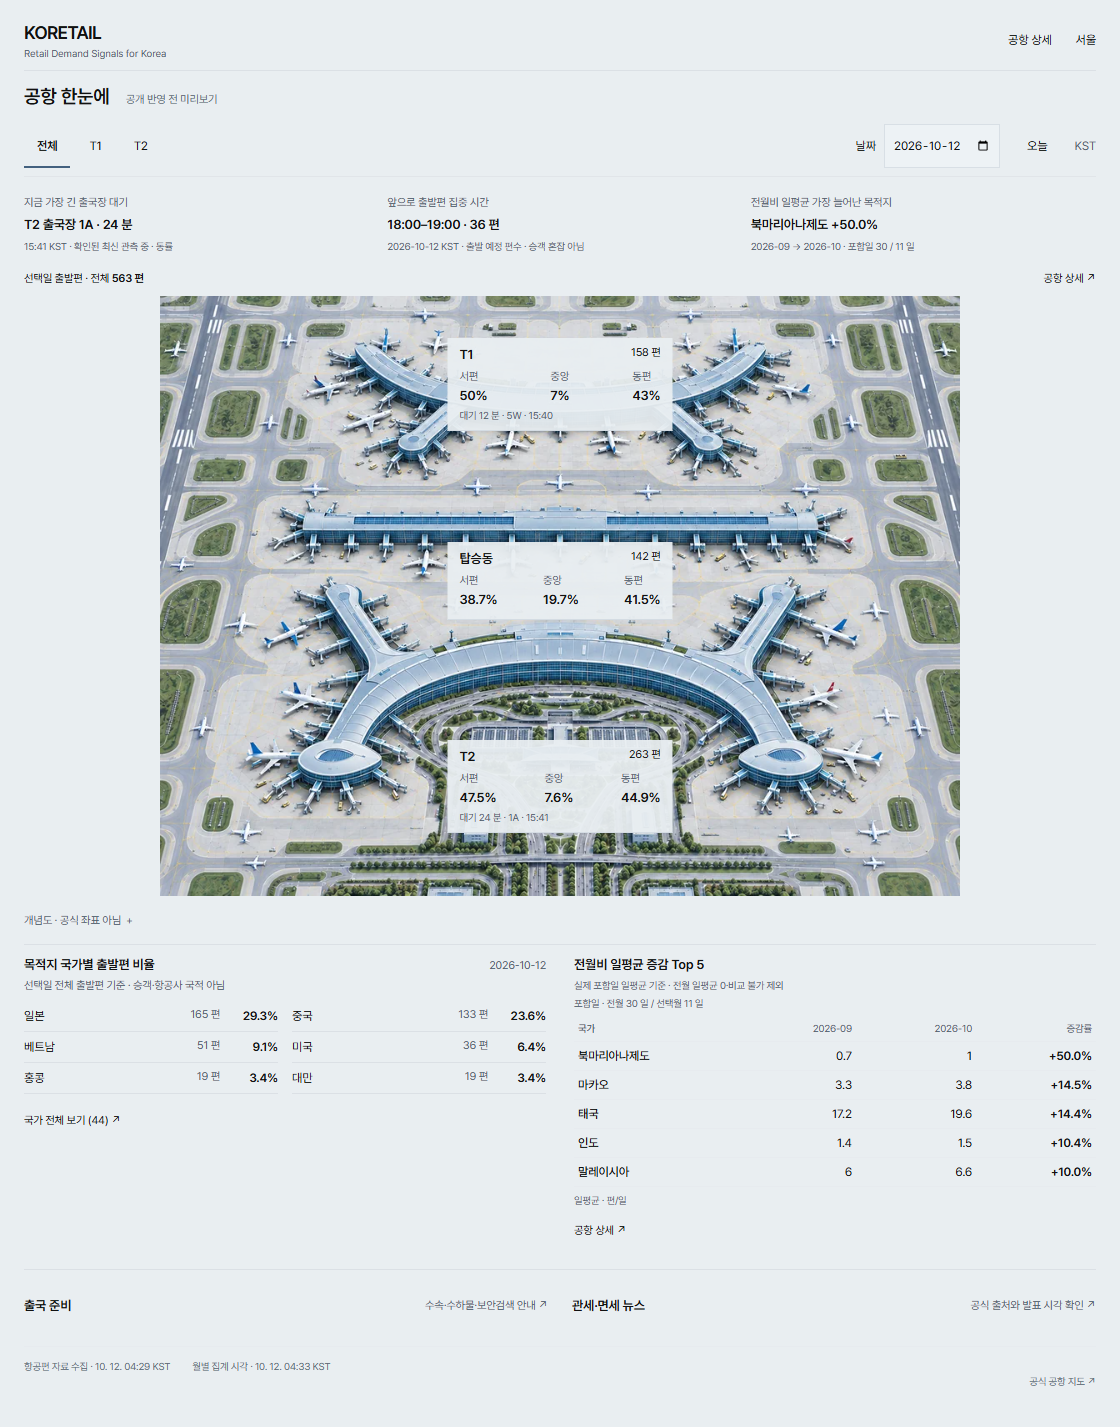
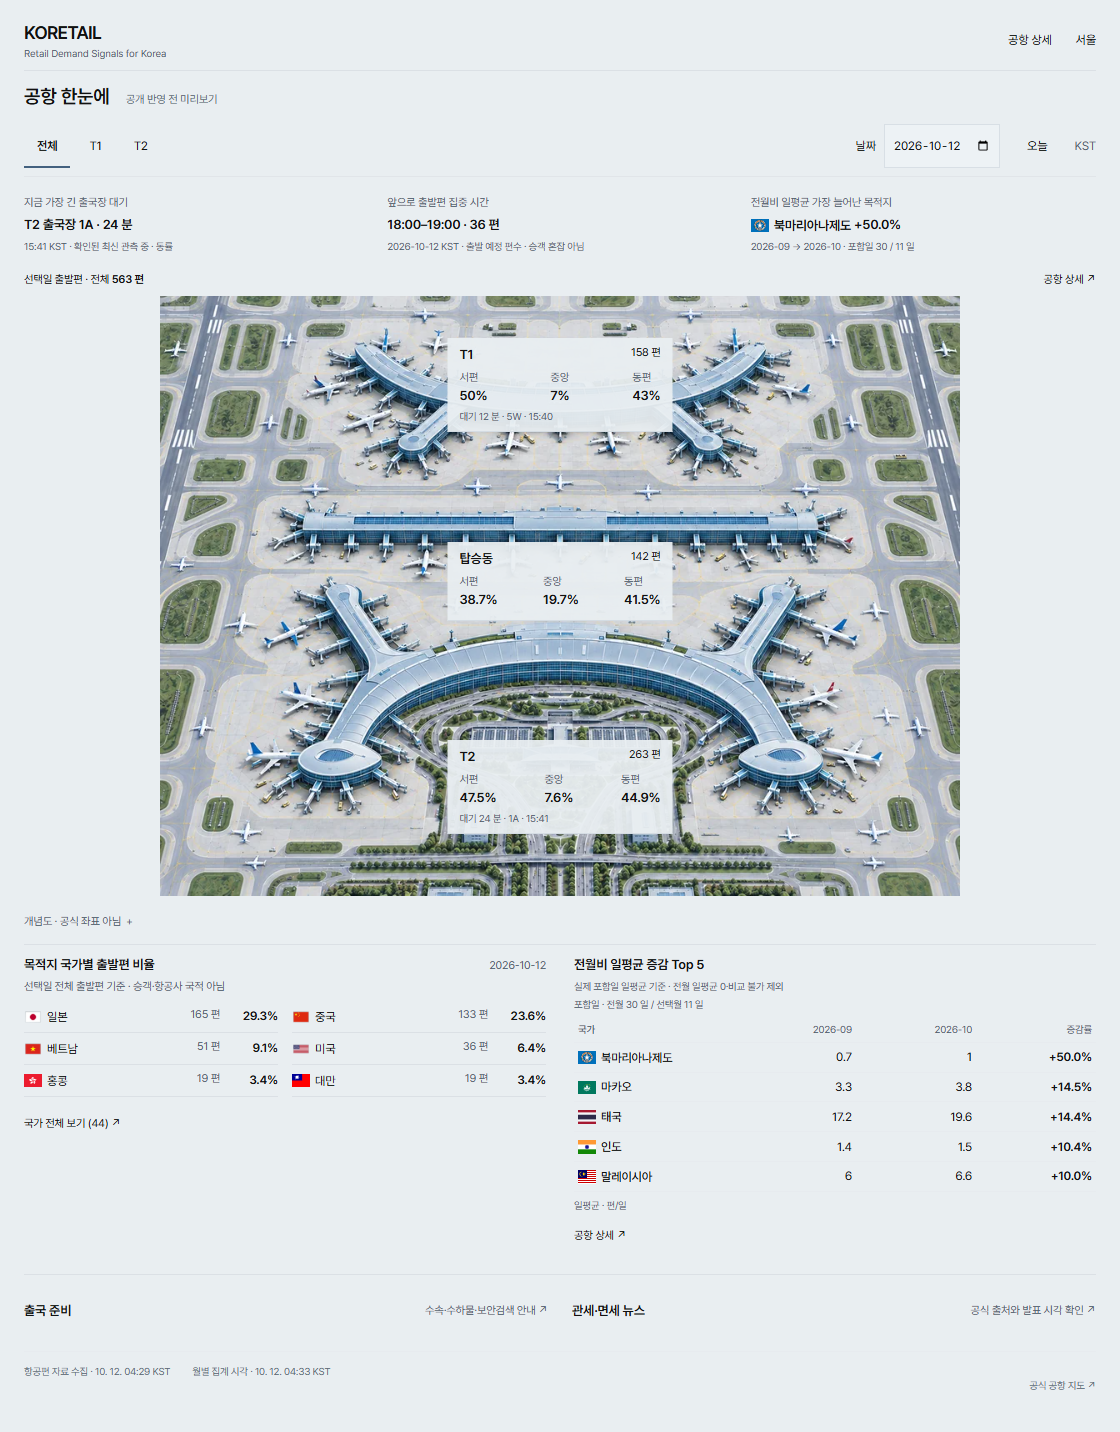
Refine mobile glance overlays and restore date fixture contract

diff --git a/app/airport-glance-preview.tsx b/app/airport-glance-preview.tsx
@@ -31,6 +31,10 @@ const interfaceCopy={
  zh:{seoul:'首尔',building:'建筑未确认',country:'国家',mean:'日均 · 班/日',map:'机场官方地图',main:'主菜单',terminal:'航站楼',summary:'摘要',layout:'机场布局',more:'更多机场信息',days:'计入日期',dayUnit:'天'},
  ja:{seoul:'ソウル',building:'建物未確認',country:'国',mean:'1日平均 · 便/日',map:'空港公式地図',main:'メインメニュー',terminal:'ターミナル',summary:'概要',layout:'空港配置',more:'空港の詳細情報',days:'集計日数',dayUnit:'日'},
 } as const;
+// Reuse the reviewed assets already used by AirportZoneCountries; never guess a fallback flag.
+const sculptedFlags=new Set(['CN','JP','US','VN']);
+const flatFlags=new Set('AE AT AU BN CA CH CZ DE DK ES ET FI FR GB GE GU HK HU ID IN IT KG KH KZ LA LK MM MN MO MP MX MY NL NP NZ PH PL PT QA SG TH TM TR TW UZ'.split(' '));
+const countryFlag=(country:string)=>sculptedFlags.has(country)?`/images/airport-flags/${country}.webp`:flatFlags.has(country)?`/images/airport-flags/fallback/${country.toLowerCase()}.svg`:null;
 const insightCopy={
  ko:{wait:'지금 가장 긴 출국장 대기',waitBasis:'확인된 최신 관측 중',upcoming:'앞으로 출발편 집중 시간',upcomingBasis:'출발 예정 편수 · 승객 혼잡 아님',growth:'전월비 일평균 가장 늘어난 목적지',noGrowth:'비교 가능한 증가 없음',noUpcoming:'현재 이후 예정편 없음',unavailable:'확인 가능한 자료 없음',minute:'분',observed:'관측',waitShort:'대기',tie:'동률',shared:'T1 출국장 이용',growthTitle:'전월비 일평균 증감 Top 5'},
  en:{wait:'Longest current departure-hall wait',waitBasis:'Among fresh available observations',upcoming:'Busiest upcoming departure slot',upcomingBasis:'Scheduled flights · not passenger crowding',growth:'Largest daily-mean growth vs previous month',noGrowth:'No comparable increase',noUpcoming:'No remaining scheduled departures',unavailable:'No verified data',minute:'min',observed:'Observed',waitShort:'Wait',tie:'Tied',shared:'Uses T1 departure halls',growthTitle:'Daily-mean change vs previous month · Top 5'},
@@ -58,9 +62,10 @@ export default function AirportGlancePreview({lang,artworkSrc=null}:{lang:Lang;a
  const minuteText=(minute:number)=>`${String(Math.floor(minute/60)).padStart(2,'0')}:${String(minute%60).padStart(2,'0')}`;
  const details=`/${lang}/airport?terminal=${scope}${day?`&date=${day}`:''}`;
  const buildingNames={T1:'T1',CONCOURSE:c.concourse,T2:'T2'},countryName=(country:string)=>country==='KR'?dc.domestic:names.of(country)??country;
+  const countryLabel=(country:string)=>{const src=countryFlag(country);return <span className="glance-country-name">{src&&<img src={src} width="18" height="18" alt="" loading="lazy" decoding="async"/>}<span>{countryName(country)}</span></span>;};
  const knownCountries=data?.countries.filter(row=>row.country!==null)??[],unknownCountry=data?.countries.find(row=>row.country===null);
  const countryLimit=knownCountries[5]?.flights??0,leadingCountries=knownCountries.filter((row,index)=>index<6||row.flights===countryLimit);
- const countryRow=(row:{country:string|null;flights:number})=><li key={row.country??'UNKNOWN'} data-country={row.country??'UNKNOWN'}><span>{row.country===null?dc.unknown:countryName(row.country)}</span><span>{fmt.format(row.flights)} {c.unit}</span><strong>{data&&data.total>0?`${fmt.format(row.flights/data.total*100)}%`:'—'}</strong></li>;
+ const countryRow=(row:{country:string|null;flights:number})=><li key={row.country??'UNKNOWN'} data-country={row.country??'UNKNOWN'}><span>{row.country===null?dc.unknown:countryLabel(row.country)}</span><span>{fmt.format(row.flights)} {c.unit}</span><strong>{data&&data.total>0?`${fmt.format(row.flights/data.total*100)}%`:'—'}</strong></li>;
  const waitValue=(value:NonNullable<typeof wait>)=>`${value.minutes}${value.row.waitTimeRaw==='60+'?'+':''} ${ic.minute}`;
  return <main className="glance-preview" data-testid="airport-glance-preview">
   <header className="glance-header"><a href={`/${lang}/airport`} className="glance-brand">KORETAIL<span>Retail Demand Signals for Korea</span></a><nav aria-label={ui.main}><a href={details}>{c.detail}</a><a href={`/${lang}/myeongdong`}>{ui.seoul}</a></nav></header>
@@ -69,7 +74,7 @@ export default function AirportGlancePreview({lang,artworkSrc=null}:{lang:Lang;a
   <section className="glance-insights" aria-label={ui.summary}>
    <a href={`${details}#airport-checkpoints-title`} data-testid="glance-key-wait"><span>{ic.wait}</span><strong>{wait?`${wait.row.terminal} ${friendlyCheckpointName(wait.row.zone,lang)} · ${waitValue(wait)}`:ic.unavailable}</strong><small>{wait?`${shortTime(wait.row.observedAt)} KST · ${ic.waitBasis}${wait.tied?` · ${ic.tie}`:''}`:ic.waitBasis}</small></a>
    <a href={`${details}#airport-departure-model-slot`} data-testid="glance-key-upcoming"><span>{ic.upcoming}</span><strong>{upcoming?`${minuteText(upcoming.startMin)}–${minuteText(upcoming.endMin)} · ${upcoming.flights} ${c.unit}`:futureReady?ic.noUpcoming:ic.unavailable}</strong><small>{day||'—'} KST · {ic.upcomingBasis}{upcoming?.tied?` · ${ic.tie}`:''}</small></a>
-   <a href={`${details}#airport-monthly-flights`} data-testid="glance-key-growth"><span>{ic.growth}</span><strong>{growth?<>{countryName(growth.country)} <ChangeRate value={growth.percent} lang={lang}/>{ranking[1]?.percent===growth.percent?` · ${ic.tie}`:''}</>:ranking.length?ic.noGrowth:ic.unavailable}</strong><small>{previousMonth||'—'} → {month||'—'} · {ui.days} {previous?.includedDays.length??'—'} / {current?.includedDays.length??'—'} {ui.dayUnit}</small></a>
+   <a href={`${details}#airport-monthly-flights`} data-testid="glance-key-growth"><span>{ic.growth}</span><strong>{growth?<>{countryLabel(growth.country)} <ChangeRate value={growth.percent} lang={lang}/>{ranking[1]?.percent===growth.percent?` · ${ic.tie}`:''}</>:ranking.length?ic.noGrowth:ic.unavailable}</strong><small>{previousMonth||'—'} → {month||'—'} · {ui.days} {previous?.includedDays.length??'—'} / {current?.includedDays.length??'—'} {ui.dayUnit}</small></a>
   </section>
   {!ready&&<p role="status" className="glance-status">{summary===null?c.missing:loaded===undefined?c.loading:payload?.truncated?c.partial:c.missing}</p>}
   <section className="glance-airport" aria-label={ui.layout}><div className="glance-map-heading"><span>{c.total} · {scope==='all'?c.all:scope} <strong>{data?fmt.format(data.total):'—'} {c.unit}</strong></span><a href={`${details}#airport-departure-model-slot`}>{c.detail} ↗</a></div><div className="glance-art-frame" data-artwork={artworkSrc?'ready':'pending'}>
@@ -77,7 +82,7 @@ export default function AirportGlancePreview({lang,artworkSrc=null}:{lang:Lang;a
    {(['T1','CONCOURSE','T2'] as const).map(building=>{const counts=data?.buildings[building],shares=counts?selectedZoneShares(counts):null,queue=building==='CONCOURSE'?null:glanceLongestWait(queues.filter(row=>row.terminal===building),clock);return <section key={building} className={`glance-building glance-building-${building}`} aria-label={buildingNames[building]} data-selected={scope==='all'||scope===building||(scope==='T1'&&building==='CONCOURSE')}><h2>{buildingNames[building]} <span>{counts?`${counts.total} ${c.unit}`:'—'}</span></h2><dl>{(['WEST','CENTER','EAST'] as const).map(side=><div key={side}><dt>{({WEST:c.west,CENTER:c.center,EAST:c.east})[side]}</dt><dd>{shares?.[side]!==null&&shares?.[side]!==undefined?`${fmt.format(shares[side]!)}%`:'—'}</dd></div>)}</dl>{queue&&<small className="glance-map-queue" data-queue-terminal={building}>{ic.waitShort} {waitValue(queue)} · {queue.row.zone.replace(/^DG(\d+)_/,'$1')} · {shortTime(queue.row.observedAt)}</small>}{counts&&counts.UNVERIFIED>0&&<small className="glance-location-note">{c.unknown} {counts.UNVERIFIED} {c.unit}</small>}</section>;})}
   </div><details className="glance-context"><summary>{c.concept}</summary><p>{c.scope}</p><p>{c.scheduled}</p></details>{data&&data.unverifiedBuilding>0&&<p>{ui.building} {data.unverifiedBuilding} {c.unit}</p>}</section>
   <div className="glance-brief-data"><section className="glance-destinations" aria-label={dc.title}><div className="glance-section-head"><h2>{dc.title}</h2><span>{day||'—'}</span></div><p>{dc.basis}</p>{data?<><ul>{leadingCountries.map(countryRow)}{unknownCountry&&countryRow(unknownCountry)}</ul>{data.total===0&&<p>0 {c.unit}</p>}</>:<p role="status">{c.missing}</p>}<a className="glance-detail-link" href={`${details}#airport-departure-model-slot`}>{dc.more} ({knownCountries.length}) ↗</a></section>
-  <section className="glance-ranking"><div className="glance-section-head"><h2>{ic.growthTitle}</h2></div><p>{c.basis}</p><p className="glance-included-days">{ui.days} · {c.previous} {previous?`${previous.includedDays.length} ${ui.dayUnit}`:'—'} / {c.current} {current?`${current.includedDays.length} ${ui.dayUnit}`:'—'}</p><table><thead><tr><th>{ui.country}</th><th>{previous?.month??(previousMonth||'—')}</th><th>{month||'—'}</th><th>{c.change}</th></tr></thead><tbody>{ranking.map(row=><tr key={row.country} data-country={row.country}><th scope="row">{countryName(row.country)}</th><td>{fmt.format(row.previous!)}</td><td>{fmt.format(row.current!)}</td><td><ChangeRate value={row.percent} lang={lang}/></td></tr>)}</tbody></table>{!ranking.length&&<p role="status">{month&&monthRequest.pending?c.loading:c.missing}</p>}<small>{ui.mean}</small><a className="glance-detail-link" href={`${details}#airport-monthly-flights`}>{c.detail} ↗</a></section></div>
+  <section className="glance-ranking"><div className="glance-section-head"><h2>{ic.growthTitle}</h2></div><p>{c.basis}</p><p className="glance-included-days">{ui.days} · {c.previous} {previous?`${previous.includedDays.length} ${ui.dayUnit}`:'—'} / {c.current} {current?`${current.includedDays.length} ${ui.dayUnit}`:'—'}</p><table><thead><tr><th>{ui.country}</th><th>{previous?.month??(previousMonth||'—')}</th><th>{month||'—'}</th><th>{c.change}</th></tr></thead><tbody>{ranking.map(row=><tr key={row.country} data-country={row.country}><th scope="row">{countryLabel(row.country)}</th><td>{fmt.format(row.previous!)}</td><td>{fmt.format(row.current!)}</td><td><ChangeRate value={row.percent} lang={lang}/></td></tr>)}</tbody></table>{!ranking.length&&<p role="status">{month&&monthRequest.pending?c.loading:c.missing}</p>}<small>{ui.mean}</small><a className="glance-detail-link" href={`${details}#airport-monthly-flights`}>{c.detail} ↗</a></section></div>
   <nav className="glance-actions" aria-label={ui.more}><a href={`${details}#airport-departure-preparation`}><strong>{c.ready}</strong><span>{c.readyNote} ↗</span></a><a href={`/${lang}/airport-news`}><strong>{c.news}</strong><span>{c.newsNote} ↗</span></a></nav>
   <footer><span>{c.collected} · {stamp(payload?.retrievedAt)}</span><span>{c.monthTime} · {stamp(monthRequest.reply?.calculatedAt)}</span><a href="https://www.airport.kr/geomap/ap_ko/view.do" target="_blank" rel="noreferrer">{ui.map} ↗</a></footer>
  </main>;

diff --git a/e2e/airport-glance-preview.spec.ts b/e2e/airport-glance-preview.spec.ts
@@ -12,7 +12,7 @@ const monthly={status:'READY',month:'2026-10',calculatedAt:'2026-10-11T01:00:00Z
 const queues=[{terminal:'T1',zone:'DG2_E',waitTimeMinutes:12,waitTimeRaw:'12',observedAt:date+'T10:10:00+09:00',freshness:'LIVE'},{terminal:'T2',zone:'DG1_A',waitTimeMinutes:24,waitTimeRaw:'24',observedAt:date+'T10:11:00+09:00',freshness:'LIVE'},{terminal:'T2',zone:'DG1_B',waitTimeMinutes:24,waitTimeRaw:'24',observedAt:date+'T10:11:00+09:00',freshness:'LIVE'}];
 async function routeData(page:import('@playwright/test').Page){
  await page.clock.setFixedTime(new Date(`${date}T10:15:00+09:00`));
- await page.route('**/api/live/summary*',routeSummary({...SUMMARY_FIXTURE,dayRelation:'TODAY',todayKst:date,serviceDateKst:date,airport:{...SUMMARY_FIXTURE.airport,serviceDateKst:date,congestion:queues},generatedAt:`${date}T10:15:00+09:00`}));
+ await page.route('**/api/live/summary*',route=>{const day=new URL(route.request().url()).searchParams.get('date')??date;return routeSummary({...SUMMARY_FIXTURE,dayRelation:day===date?'TODAY':'PAST',todayKst:date,serviceDateKst:day,airport:{...SUMMARY_FIXTURE.airport,serviceDateKst:day,congestion:day===date?queues:[]},generatedAt:`${date}T10:15:00+09:00`})(route);});
  await page.route('**/api/live/flights*',route=>{const day=new URL(route.request().url()).searchParams.get('date')!;return route.fulfill({json:{mode:'live-flights',serviceDateKst:day,flights:day===date?flights:[],retrievedAt:`${day}T00:00:00Z`,truncated:false}});});
  await page.route('**/api/live/airport-months*',route=>route.fulfill({json:monthly}));
 }
@@ -20,8 +20,9 @@ for(const width of [360,390,430,1440])test(`decision summary with image overlays
  const errors:string[]=[];page.on('pageerror',error=>errors.push(error.message));await page.setViewportSize({width,height:1000});await page.emulateMedia({reducedMotion:'reduce'});await routeData(page);await page.goto('/ko/airport-glance-preview');const app=page.getByTestId('airport-glance-preview');
  await expect(app.locator('.glance-map-heading')).toContainText('300 편');await expect(app.getByTestId('glance-key-wait')).toContainText('T2 출국장 1A · 24 분');await expect(app.getByTestId('glance-key-wait')).toContainText('동률');
  await expect(app.getByTestId('glance-key-upcoming')).toContainText('23:00–24:00 · 24 편');await expect(app.getByTestId('glance-key-growth')).toContainText('대만');
- await expect(app.locator('.glance-destinations li[data-country=JP]')).toContainText('100%');await expect(app.locator('.glance-ranking tbody tr')).toHaveCount(5);
+ await expect(app.locator('.glance-destinations li[data-country=JP]')).toContainText('100%');await expect(app.locator('.glance-destinations li[data-country=JP] img')).toHaveAttribute('src','/images/airport-flags/JP.webp');await expect(app.getByTestId('glance-key-growth').locator('img')).toHaveAttribute('src','/images/airport-flags/fallback/tw.svg');await expect(app.locator('.glance-ranking [data-country=TW] img')).toHaveAttribute('src','/images/airport-flags/fallback/tw.svg');await expect(app.locator('.glance-ranking tbody tr')).toHaveCount(5);
  await expect(app.locator('.glance-map-queue')).toHaveCount(2);await expect(app.locator('.glance-building-CONCOURSE .glance-map-queue')).toHaveCount(0);await expect(app.locator('.glance-location-note')).toHaveCount(0);
+ await expect(app.locator('.glance-building').first()).toHaveCSS('width',width<=700?'220px':'225px');await expect(app.locator('.glance-building dl').first()).toHaveCSS('display',width<=700?'grid':'flex');
  const imageBox=await app.locator('.glance-art-frame>img').boundingBox(),labels=await app.locator('.glance-building').evaluateAll(nodes=>nodes.map(node=>{const b=node.getBoundingClientRect();return {x:b.x,y:b.y,right:b.right,bottom:b.bottom};}));
  for(const box of labels){expect(box.x).toBeGreaterThanOrEqual(imageBox!.x);expect(box.right).toBeLessThanOrEqual(imageBox!.x+imageBox!.width+1);expect(box.y).toBeGreaterThanOrEqual(imageBox!.y);expect(box.bottom).toBeLessThanOrEqual(imageBox!.y+imageBox!.height+1);}expect(labels[0].bottom).toBeLessThan(labels[1].y);expect(labels[1].bottom).toBeLessThan(labels[2].y);
  await expect(app.locator('.glance-bars,.glance-hour-picker,.glance-destinations details')).toHaveCount(0);await expect(app.locator('.glance-included-days')).toHaveText('포함일 · 전월 1 일 / 선택월 1 일');
@@ -41,4 +42,13 @@ for(const lang of ['en','zh','ja'] as const)test(`localized decision summary ${l
 
 test('missing summary clock cannot turn available flight records into a no-upcoming claim',async({page})=>{
  await page.route('**/api/live/summary*',route=>route.fulfill({status:503,json:{error:'unavailable'}}));await page.route('**/api/live/flights*',route=>route.fulfill({json:{mode:'live-flights',serviceDateKst:date,flights,retrievedAt:`${date}T00:00:00Z`,truncated:false}}));await page.route('**/api/live/airport-months*',route=>route.fulfill({json:monthly}));await page.goto('/ko/airport-glance-preview');const app=page.getByTestId('airport-glance-preview');await expect(app.locator('.glance-status')).toHaveText('확인 가능한 자료가 없습니다.');await app.locator('input[type=date]').fill(date);await expect(app.locator('.glance-map-heading')).toContainText('300 편');await expect(app.getByTestId('glance-key-upcoming')).toContainText('확인 가능한 자료 없음');await expect(app.getByTestId('glance-key-upcoming')).not.toContainText('현재 이후 예정편 없음');
+});
+
+// Flights may finish before the selected-day summary; absence of a clock is not zero upcoming flights.
+test('pending past-day summary stays unavailable until its matching response arrives',async({page})=>{
+ await routeData(page);await page.goto('/ko/airport-glance-preview');const app=page.getByTestId('airport-glance-preview');await expect(app.getByTestId('glance-key-wait')).toContainText('24 분');
+ let release!:()=>void;const pending=new Promise<void>(resolve=>{release=resolve;});
+ await page.route('**/api/live/summary*',async route=>{await pending;return routeSummary({...SUMMARY_FIXTURE,dayRelation:'PAST',todayKst:date,serviceDateKst:'2026-10-10',airport:{...SUMMARY_FIXTURE.airport,serviceDateKst:'2026-10-10',congestion:[]},generatedAt:`${date}T10:15:00+09:00`})(route);});
+ await app.locator('input[type=date]').fill('2026-10-10');await expect(app.locator('.glance-map-heading')).toContainText('0 편');await expect(app.getByTestId('glance-key-upcoming')).toContainText('확인 가능한 자료 없음');await expect(app.locator('.glance-map-queue')).toHaveCount(0);
+ release();await expect(app.getByTestId('glance-key-upcoming')).toContainText('현재 이후 예정편 없음');
 });

diff --git a/app/airport-glance-preview.css b/app/airport-glance-preview.css
@@ -32,3 +32,7 @@ body:has(.glance-preview){background:#e9eef1}
 
 .glance-insights{display:grid;grid-template-columns:repeat(3,minmax(0,1fr));gap:18px;margin:12px 0}.glance-insights>a{display:grid;align-content:start;gap:4px;min-width:0;padding:6px 0;min-height:64px}.glance-insights>a>span{font-size:11px;color:#53616e}.glance-insights strong{font-size:13px;font-weight:600;overflow-wrap:anywhere}.glance-insights small{font-size:10px;color:#53616e;line-height:1.45}.glance-map-heading{display:flex;justify-content:space-between;gap:10px;font-size:11px;margin:4px 0 8px}.glance-art-frame[data-artwork=ready]{max-width:800px;margin:auto}.glance-map-queue{display:block;font-size:10px!important;white-space:nowrap;margin-top:2px}.glance-brief-data{display:grid;grid-template-columns:1fr 1fr;gap:28px;border-top:1px solid #dbe0e5;padding-top:10px}.glance-brief-data .glance-destinations{margin:0;padding:0;border:0}.glance-brief-data .glance-destinations ul{grid-template-columns:1fr 1fr;gap:0 14px}.glance-detail-link{display:flex;align-items:center;min-height:44px;font-size:11px}.glance-ranking>small{font-size:10px;color:#53616e}.glance-ranking table{margin-top:5px}.glance-ranking td,.glance-ranking th{padding-block:5px}.glance-ranking>p{font-size:10px;color:#53616e}
 @media(max-width:700px){.glance-insights{grid-template-columns:1fr;gap:0;margin:8px 0}.glance-insights>a{min-height:0;grid-template-columns:minmax(0,.9fr) minmax(0,1.1fr);column-gap:10px;row-gap:2px;padding:7px 0;border-bottom:1px solid #dbe0e5}.glance-insights>a>small{grid-column:2}.glance-insights strong{font-size:12px}.glance-insights>a>span{grid-row:1/3;align-self:center}.glance-brief-data{grid-template-columns:1fr;gap:12px}.glance-map-queue{line-height:1.25}.glance-building dl>div{gap:3px}.glance-context summary{min-height:36px}}
+
+/* Country flags are shared across viewports; spacing changes below are mobile only. */
+.glance-country-name{display:inline-flex;align-items:center;gap:5px;vertical-align:middle;min-width:0;max-width:100%}.glance-country-name img{flex:0 0 18px;object-fit:contain}.glance-country-name>span{min-width:0;overflow-wrap:anywhere}
+@media(max-width:700px){.glance-art-frame[data-artwork=ready] .glance-building{width:220px;padding:4px 8px}.glance-building h2{padding-bottom:1px}.glance-building dl{display:grid;grid-template-columns:repeat(3,minmax(0,1fr));gap:10px;margin:2px 0;line-height:1.2}.glance-building dl>div{display:grid;gap:1px;align-items:baseline;text-align:center}.glance-building-T1{top:4%}.glance-building-CONCOURSE{top:38%}.glance-building-T2{top:auto;bottom:1%}.glance-map-queue{padding-top:1px}}

diff --git a/docs/AIRPORT_GLANCE_APPROVED_PREVIEW_20261012.md b/docs/AIRPORT_GLANCE_APPROVED_PREVIEW_20261012.md
@@ -26,3 +26,13 @@ Targeted validation: typecheck PASS; scoped ESLint0 errors/one existing static-i
 Draft only: this is a revised candidate, not final approval. Existing detail is not shortened, and no merge/deployment was run. Library delivery is handled by the parent; no duplicate upload attempted. Earlier capture folders are retained as historical evidence, superseded by the links above.
 
 Final review also verifies that a failed summary clock cannot label available flight records as “no upcoming departures”; that case is unavailable. Type/lint, the single added failure-path browser test and build passed after the guard. Normal-data captures above are unchanged.
+
+
+## 2026-10-12 follow-up: mobile spacing, shared flags, date fixture
+
+- Mobile <=700px: terminal overlays use 220px width with three equal direction/value columns and small vertical offsets. Font sizes are unchanged. Desktop keeps the existing 225px flex overlay layout and image dimensions.
+- Summary, country shares, and change Top 5 reuse the existing country flag assets on both desktop and mobile. Unknown/other and the domestic-destination category do not receive invented flags. No new data or detailed-page changes.
+- CI 38220071045 failed because the test summary fixture always returned October 11, including October 9/10 requests. `useLiveSummary` correctly rejects a response whose serviceDateKst does not match the selection. The fixture now responds with the requested date and PAST relation. Production guards were not relaxed.
+- A controlled pending-summary test verifies unavailable while flight data has already arrived, then no-upcoming only after the matching past-day summary arrives. Missing-summary clock protection remains tested.
+- Targeted verification: mobile 360 / desktop 1440 layout + rapid date changes + missing clock + deferred summary: 5 passed. Prior 7 viewport/localization checks passed. Native production build completed. Screenshots refreshed at 360/390/430/1440 with decoded flags, no overflow, and no page errors; see capture-evidence.json.
+- This remains an unpublished preview. No merge or deployment was performed.
